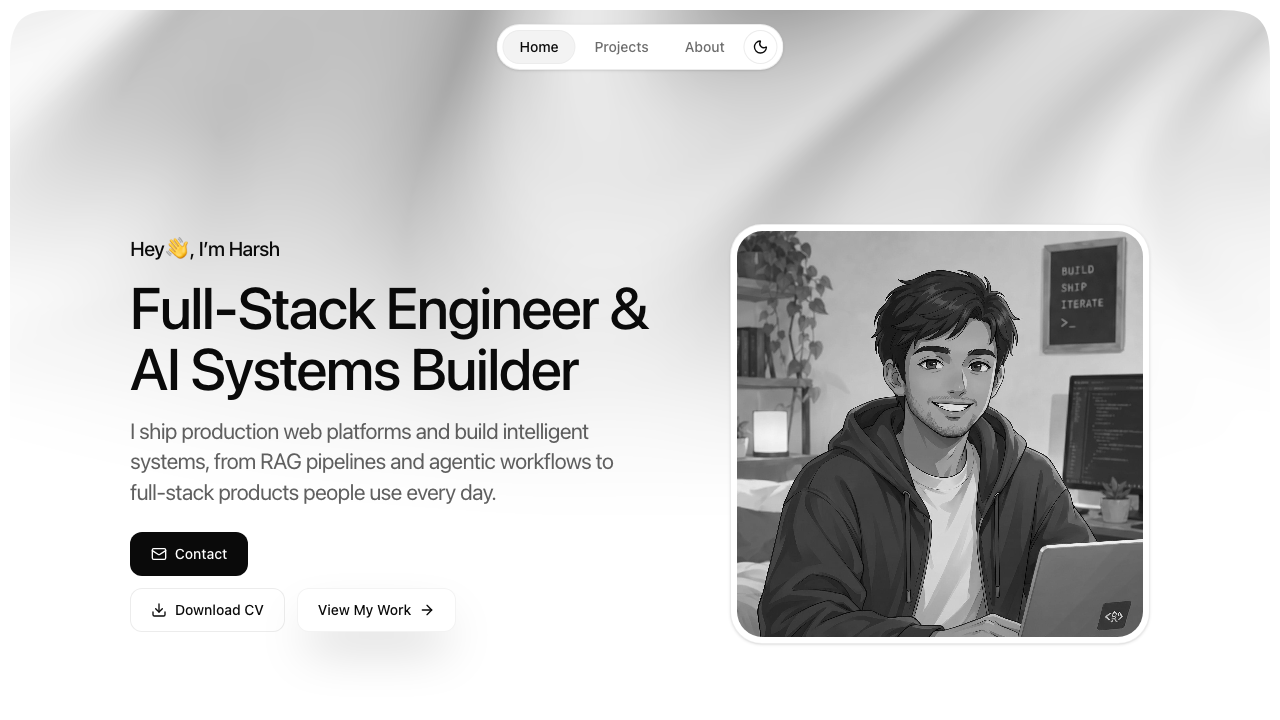
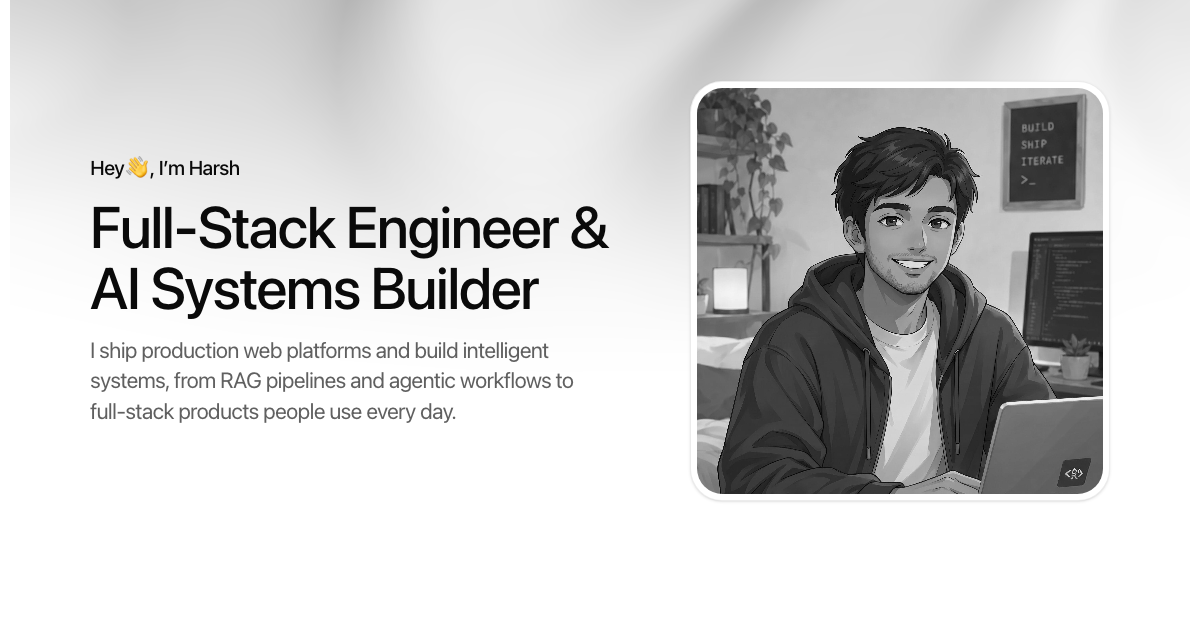
refactor: update layout styles, adjust Open Graph image dimensions, and enhance metadata handling

diff --git a/app/layout.tsx b/app/layout.tsx
@@ -48,17 +48,39 @@ export default function RootLayout({
   return (
     <html lang="en" suppressHydrationWarning>
       <body
-        className={`${geistSans.variable} ${geistMono.variable} ${fraunces.variable} min-h-screen bg-background font-sans text-foreground antialiased`}
+        className={`${geistSans.variable} ${geistMono.variable} ${fraunces.variable} bg-background text-foreground min-h-screen font-sans antialiased`}
       >
         <Providers>
           <div className="site-frame site-frame--top" aria-hidden="true" />
           <div className="site-frame site-frame--left" aria-hidden="true" />
           <div className="site-frame site-frame--right" aria-hidden="true" />
-          <svg className="site-corner site-corner--top-left" width="50" height="50" viewBox="0 0 50 50" fill="none" xmlns="http://www.w3.org/2000/svg" aria-hidden="true">
-            <path d="M5.50871e-06 0C-0.00788227 37.3001 8.99616 50.0116 50 50H5.50871e-06V0Z" fill="currentColor"/>
+          <svg
+            className="site-corner site-corner--top-left"
+            width="50"
+            height="50"
+            viewBox="0 0 50 50"
+            fill="none"
+            xmlns="http://www.w3.org/2000/svg"
+            aria-hidden="true"
+          >
+            <path
+              d="M5.50871e-06 0C-0.00788227 37.3001 8.99616 50.0116 50 50H5.50871e-06V0Z"
+              fill="currentColor"
+            />
           </svg>
-          <svg className="site-corner site-corner--top-right" width="50" height="50" viewBox="0 0 50 50" fill="none" xmlns="http://www.w3.org/2000/svg" aria-hidden="true">
-            <path d="M5.50871e-06 0C-0.00788227 37.3001 8.99616 50.0116 50 50H5.50871e-06V0Z" fill="currentColor"/>
+          <svg
+            className="site-corner site-corner--top-right"
+            width="50"
+            height="50"
+            viewBox="0 0 50 50"
+            fill="none"
+            xmlns="http://www.w3.org/2000/svg"
+            aria-hidden="true"
+          >
+            <path
+              d="M5.50871e-06 0C-0.00788227 37.3001 8.99616 50.0116 50 50H5.50871e-06V0Z"
+              fill="currentColor"
+            />
           </svg>
           <SkipToContent />
           <PageBackdrop />

diff --git a/lib/metadata.ts b/lib/metadata.ts
@@ -6,6 +6,8 @@ const siteUrl = getSiteUrl();
 
 export const siteConfig = {
   name: "Harsh Virani",
+  ogTitle: "Harsh Virani | Full-Stack Engineer & AI Systems Builder",
+  ogSubtitle: "Full-Stack & AI Systems Engineering",
   description:
     "Full-stack engineer and AI systems builder. Projects in agentic AI, RAG, computer vision, and production web platforms.",
   url: siteUrl,
@@ -56,13 +58,13 @@ export const baseMetadata: Metadata = {
     type: "website",
     locale: "en_US",
     url: siteConfig.url,
-    title: siteConfig.name,
+    title: siteConfig.ogTitle,
     description: siteConfig.description,
     siteName: siteConfig.name,
   },
   twitter: {
     card: "summary_large_image",
-    title: siteConfig.name,
+    title: siteConfig.ogTitle,
     description: siteConfig.description,
     creator: siteConfig.creator,
   },
@@ -74,18 +76,29 @@ export const baseMetadata: Metadata = {
   manifest: "/site.webmanifest",
 };
 
+export const getOpenGraphTitle = (pageTitle?: string): string => {
+  if (!pageTitle) {
+    return siteConfig.ogTitle;
+  }
+
+  return `${pageTitle} | ${siteConfig.name} — ${siteConfig.ogSubtitle}`;
+};
+
 export function createMetadata({
   title,
   description,
   path = "/",
+  openGraphTitle,
   noIndex = false,
 }: {
   title?: string;
   description?: string;
   path?: string;
+  openGraphTitle?: string;
   noIndex?: boolean;
 }): Metadata {
   const url = `${siteConfig.url}${path}`;
+  const socialTitle = openGraphTitle ?? getOpenGraphTitle(title);
 
   return {
     title,
@@ -94,12 +107,12 @@ export function createMetadata({
       canonical: path,
     },
     openGraph: {
-      title: title ?? siteConfig.name,
+      title: socialTitle,
       description: description ?? siteConfig.description,
       url,
     },
     twitter: {
-      title: title ?? siteConfig.name,
+      title: socialTitle,
       description: description ?? siteConfig.description,
     },
     ...(noIndex && {

diff --git a/components/hero/hero.tsx b/components/hero/hero.tsx
@@ -9,7 +9,7 @@ const PORTRAIT_HOVER_SRC = "/harsh_waving.webp";
 
 export function Hero(): ReactNode {
   return (
-    <section className="relative w-full">
+    <section id="hero" className="relative w-full">
       <div className="mx-auto w-full max-w-275 px-6 pt-44 pb-24 sm:px-10 sm:pt-56 sm:pb-32">
         <div className="grid grid-cols-1 items-center gap-8 md:grid-cols-2 md:gap-8">
           <FadeIn className="flex flex-col gap-4">
@@ -25,13 +25,15 @@ export function Hero(): ReactNode {
               <span className="block whitespace-nowrap">
                 Full-Stack Engineer &
               </span>
-              <span className="block whitespace-nowrap">AI Systems Builder</span>
+              <span className="block whitespace-nowrap">
+                AI Systems Builder
+              </span>
             </h1>
 
             <p className="text-foreground/65 max-w-[38ch] text-[22px] leading-[1.4] tracking-tight">
-              I ship production web platforms and build intelligent systems, from
-              RAG pipelines and agentic workflows to full-stack products people
-              use every day.
+              I ship production web platforms and build intelligent systems,
+              from RAG pipelines and agentic workflows to full-stack products
+              people use every day.
             </p>
 
             <HeroCtas />

diff --git a/app/page.tsx b/app/page.tsx
@@ -6,9 +6,9 @@ import type { Metadata } from "next";
 import type { ReactNode } from "react";
 
 export const metadata: Metadata = createMetadata({
-  title: "Home",
   description: `Welcome to ${siteConfig.name}. ${siteConfig.description}`,
   path: "/",
+  openGraphTitle: siteConfig.ogTitle,
 });
 
 export default function HomePage(): ReactNode {

diff --git a/app/opengraph-image.tsx b/app/opengraph-image.tsx
@@ -5,8 +5,8 @@ import { siteConfig } from "@/lib/metadata";
 
 export const alt = `${siteConfig.name} — portfolio homepage`;
 export const size = {
-  width: 1280,
-  height: 720,
+  width: 1200,
+  height: 630,
 };
 export const contentType = "image/png";
 
